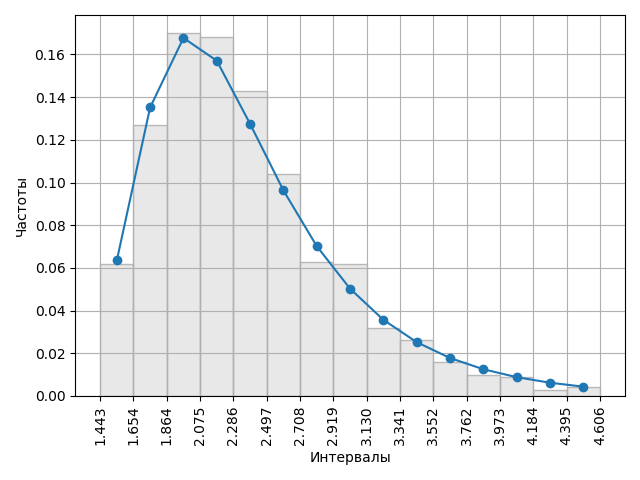
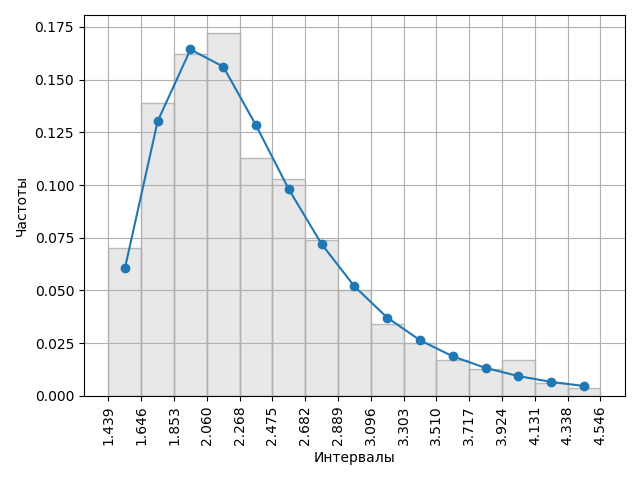
lab5 - moyal distribution fix

diff --git a/5/algorithms.py b/5/algorithms.py
@@ -4,6 +4,7 @@ import time
 import scipy
 import scipy.stats as stats
 import scipy.integrate as integrate
+import numpy as np
 import file_functions as ff
 
 
@@ -14,18 +15,12 @@ def moyal_density(x, mu, sigm):
 
 # Функция распределения Мояла
 def moyal_distribution(x, mu, sigm):
-    return -math.erf(math.exp((mu - x) / (2 * sigm)) / math.sqrt(2))
-
-
-def frange(x, y, jump):
-    while x < y:
-        yield x
-        x += jump
+    return 1 - math.erf(math.exp((mu - x) / (2 * sigm)) / math.sqrt(2))
 
 
 # Метод исключений (Неймана)
 def neumann_method(a, b, mu, sigm):
-    max_density = max([moyal_density(x, mu, sigm) for x in frange(a, b, (b - a) / 100)])
+    max_density = max([moyal_density(x, mu, sigm) for x in np.arange(a, b, (b - a) / 100)])
     x0 = a + random.uniform(0, 1) * (b - a) 
     y0 = random.uniform(0, 1) * max_density
     n = 2 
